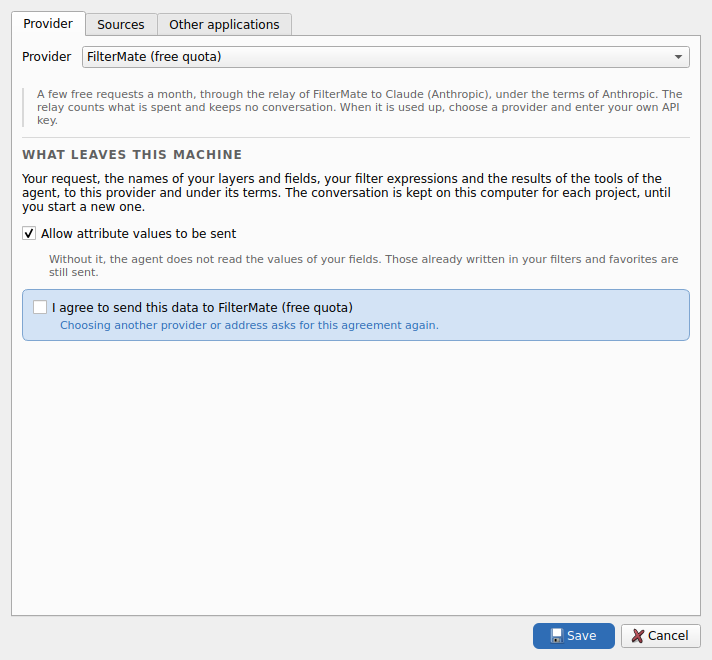
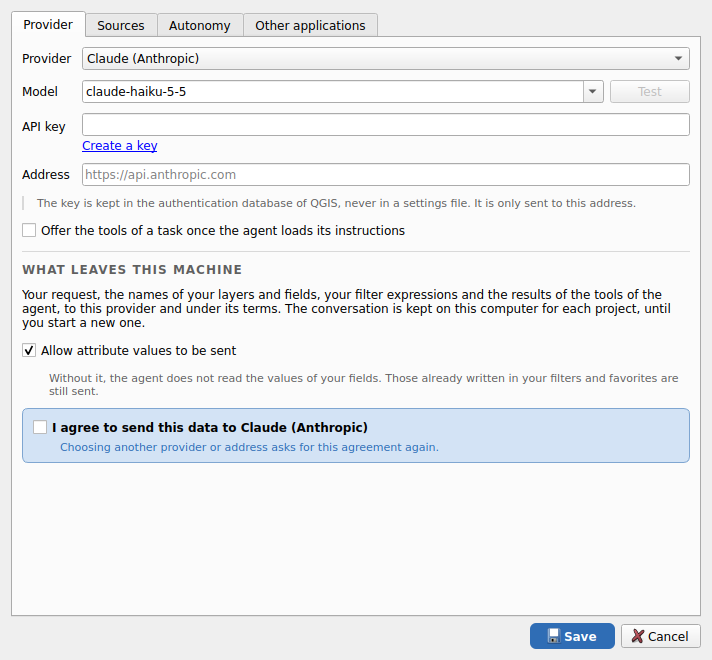
Deploy documentation b8f50547a60b4dd56f9bac595cb49d93a6dcef34 b8f50547a60b4dd56f9bac595cb49d93a6dcef34

Changed region(s): [[0.0309, 0.0303, 0.9888, 0.7273], [0.7416, 0.9394, 0.8343, 0.9697], [0.8961, 0.9394, 0.9579, 0.9697]]

diff --git a/index.ru.html b/index.ru.html
@@ -124,7 +124,7 @@
             <div class="section-heading"><p class="section-kicker">Экспериментально · Новое в FilterMate 5.1</p><h2 id="agent-title">Попросите фильтр одной фразой.</h2><p>AGENT — это чат в верхней части панели. Напишите, что нужно, например здания выше 1200 m в выбранной коммуне, и он отфильтрует, выделит, приблизит или экспортирует. Любой шаг можно отменить.</p></div>
             <a class="inline-cta" href="guide.html#agent" hreflang="en">Прочитать главу Agent <span aria-hidden="true">→</span> <small lang="en">(EN)</small></a>
         </div>
-        <ul class="capability-list"><li><strong>Ваша модель</strong><span>Claude, Mistral, OpenAI и совместимые серверы или локальная модель Ollama. Несколько бесплатных запросов в месяц для пробы, затем ваш собственный ключ, который хранится в базе аутентификации QGIS.</span></li><li><strong>Отмена по шагам</strong><span>Фильтры применяются сразу. Undo и Redo проходят по запросам агента, а Undo back to here возвращает к любому шагу.</span></li><li><strong>Алгоритмы QGIS</strong><span>Он может находить и запускать алгоритмы Processing, которые создают слои или статистику, на слоях проекта. Каждый результат — временный слой, который удаляет Undo.</span></li><li><strong>Подтверждаете вы</strong><span>Экспорт, а также добавление и удаление слоёв сначала запрашивают подтверждение. Фильтр — это одно простое предложение WHERE, которое проверяется перед выполнением.</span></li><li><strong>Источники, которые вы отмечаете</strong><span>Порталы открытых данных, сервисы WFS, сцены Sentinel-2 и коннекторы MCP — всё выключено, пока вы не отметите.</span></li><li><strong>Сначала ваше согласие</strong><span>Ничего не отправляется, пока вы не выберете модель и не дадите согласие. В руководстве перечислено, что уходит с каждым запросом.</span></li><li><strong>Сервер MCP</strong><span>По умолчанию выключен. Claude Code или другой MCP-клиент на вашем компьютере может управлять FilterMate через 127.0.0.1 с токеном доступа.</span></li></ul>
+        <ul class="capability-list"><li><strong>Ваша модель</strong><span>Ваш собственный ключ API для Claude, Mistral, OpenAI или совместимого сервера, который хранится в базе аутентификации QGIS, либо локальная модель Ollama, которой ключ не нужен; настройки подскажут в обоих случаях.</span></li><li><strong>Отмена по шагам</strong><span>Фильтры применяются сразу. Undo и Redo проходят по запросам агента, а Undo back to here возвращает к любому шагу.</span></li><li><strong>Алгоритмы QGIS</strong><span>Он может находить и запускать алгоритмы Processing, которые создают слои или статистику, на слоях проекта. Каждый результат — временный слой, который удаляет Undo.</span></li><li><strong>Подтверждаете вы</strong><span>Экспорт, а также добавление и удаление слоёв сначала запрашивают подтверждение. Фильтр — это одно простое предложение WHERE, которое проверяется перед выполнением.</span></li><li><strong>Источники, которые вы отмечаете</strong><span>Порталы открытых данных, сервисы WFS, сцены Sentinel-2 и коннекторы MCP — всё выключено, пока вы не отметите.</span></li><li><strong>Сначала ваше согласие</strong><span>Ничего не отправляется, пока вы не выберете модель и не дадите согласие. В руководстве перечислено, что уходит с каждым запросом.</span></li><li><strong>Сервер MCP</strong><span>По умолчанию выключен. Claude Code или другой MCP-клиент на вашем компьютере может управлять FilterMate через 127.0.0.1 с токеном доступа.</span></li></ul>
     </div>
 </section>
 

diff --git a/guide.fr.html b/guide.fr.html
@@ -872,15 +872,14 @@ processing.run("filtermate:batch_filter", {
 
     <h3>Choisir un modèle</h3>
     <ul>
-        <li><strong>Quota gratuit.</strong> La première fois, les réglages proposent quelques requêtes gratuites par mois, par un relais de FilterMate vers Claude Haiku 5.5 (Anthropic), sans clé à saisir. Le relais compte ce qui est dépensé et ne garde aucune conversation. Une fois le quota épuisé, le panneau demande votre propre clé d'API.</li>
-        <li><strong>Votre propre fournisseur.</strong> Claude, Mistral, OpenAI, tout serveur compatible OpenAI, ou un modèle Ollama local.</li>
+        <li><strong>Votre propre fournisseur.</strong> Claude, Mistral, OpenAI, tout serveur compatible OpenAI, ou un modèle Ollama local. Les réglages renvoient vers la page où créer une clé, la testent et listent les modèles. Pour Ollama, ils disent où l'installer et laissent télécharger un modèle depuis la boîte de dialogue.</li>
         <li><strong>La clé</strong> est conservée dans la base d'authentification de QGIS, qui demande son mot de passe maître, jamais dans un fichier de réglages. Elle n'est envoyée qu'au serveur pour lequel elle a été saisie, et vous pouvez la supprimer dans les réglages.</li>
         <li><strong>Consentement.</strong> Rien ne quitte votre ordinateur avant que vous ayez choisi un modèle et donné votre accord. Changer de fournisseur ou d'adresse le redemande.</li>
     </ul>
 
     <figure>
-        <img src="img/guide/agent-settings-fr.png" alt="Réglages d'AGENT, onglet Fournisseur : le quota gratuit choisi, ce qui quitte la machine, la case d'accord" loading="lazy" width="766" height="660">
-        <figcaption>Les réglages d'AGENT : le fournisseur (ici le quota gratuit), ce qui lui est envoyé, et l'accord demandé avant que quoi que ce soit ne quitte l'ordinateur. <em>Sources</em> et <em>Autres applications</em> sont les onglets suivants.</figcaption>
+        <img src="img/guide/agent-settings-fr.png" alt="Réglages d'AGENT, onglet Fournisseur : le fournisseur, ce qui quitte la machine, la case d'accord" loading="lazy" width="766" height="660">
+        <figcaption>Les réglages d'AGENT : le fournisseur, ce qui lui est envoyé, et l'accord demandé avant que quoi que ce soit ne quitte l'ordinateur. <em>Sources</em>, <em>Autonomie</em> et <em>Autres applications</em> sont les onglets suivants.</figcaption>
     </figure>
 
     <h3>Ce que vous voyez</h3>
@@ -938,7 +937,7 @@ processing.run("filtermate:batch_filter", {
     </ul>
     <p>
         Les valeurs d'attributs ne partent au modèle que si vous les autorisez dans les réglages : sans cela, les outils qui lisent des valeurs (<code>field_values</code>, <code>layer_statistics</code>, <code>sample_features</code>, <code>identify_at</code>) ne sont pas proposés.
-        Les valeurs déjà écrites dans des filtres et des favoris partent quand même, et la boîte de dialogue le dit. Avec le quota gratuit, la requête passe par le relais jusqu'à Claude Haiku 5.5.
+        Les valeurs déjà écrites dans des filtres et des favoris partent quand même, et la boîte de dialogue le dit.
     </p>
 
     <h3>Serveur MCP intégré au plugin</h3>
@@ -977,7 +976,7 @@ processing.run("filtermate:batch_filter", {
         <tr><td>Le panneau s'ouvre dans la mauvaise langue</td><td>Fixez <code>LANGUAGE</code> explicitement au lieu d'<em>auto</em>.</td></tr>
         <tr><td>Un filtre d'une ancienne session est toujours appliqué</td><td>Les filtres vivent dans le fichier de projet. Utilisez <strong>Unfilter</strong>, ou effacez le filtre fournisseur dans les propriétés de la couche.</td></tr>
         <tr><td>La section AGENT est absente</td><td>L'option <code>AGENT</code> de l'onglet Configuration est désactivée. Activez-la et rouvrez le panneau.</td></tr>
-        <tr><td>AGENT demande ma propre clé d'API</td><td>Le quota gratuit est épuisé, le vôtre pour le mois ou le total du relais. Saisissez une clé dans les réglages d'AGENT, ou choisissez un autre fournisseur, par exemple un modèle Ollama local.</td></tr>
+        <tr><td>AGENT demande ma propre clé d'API</td><td>Aucune clé n'est encore saisie. Saisissez-en une dans les réglages d'AGENT, ou choisissez un modèle Ollama local.</td></tr>
         <tr><td>Un modèle local donne un délai dépassé</td><td>Le délai réseau de QGIS s'applique à l'agent (60 s par défaut). Un modèle local lent à démarrer peut en demander plus, et le message le dit.</td></tr>
         <tr><td>SAM n'est pas installé : onnxruntime a été refusé ou l'installation a échoué</td><td>Si vous refusez la question, les cibles d'objets utilisent le moteur couleur, et le bouton <em>Install SAM…</em> du groupe PIPETTE la repropose. Si pip échoue (pas de réseau, pas de pip), la raison est dans le journal de FilterMate et le groupe affiche la commande à lancer à la main dans un terminal, l'OSGeo4W Shell sous Windows.</td></tr>
         <tr><td>Le modèle SAM ne se télécharge pas, ou est signalé abîmé</td><td>Le téléchargement passe par le proxy HTTP des options de QGIS et peut être annulé. Chaque fichier est vérifié par son SHA-256 avant de remplacer quoi que ce soit. Cliquez sur <em>Repair the model…</em> pour remplacer les mauvais fichiers.</td></tr>

diff --git a/guide.html b/guide.html
@@ -873,15 +873,14 @@ processing.run("filtermate:batch_filter", {
 
     <h3>Choose a model</h3>
     <ul>
-        <li><strong>Free quota.</strong> The first time, the settings offer a few free requests a month, through a relay of FilterMate to Claude Haiku 5.5 (Anthropic), with no key to enter. The relay counts what is spent and keeps no conversation. Once the quota is used up, the panel asks for your own API key.</li>
-        <li><strong>Your own provider.</strong> Claude, Mistral, OpenAI, any OpenAI-compatible server, or a local Ollama model.</li>
+        <li><strong>Your own provider.</strong> Claude, Mistral, OpenAI, any OpenAI-compatible server, or a local Ollama model. The settings link to the page where a key is created, test it, and list the models. For Ollama, they say where to install it and download a model from the dialog.</li>
         <li><strong>The key</strong> is kept in the QGIS authentication database, which asks for its master password, never in a settings file. It is sent only to the server it was typed for, and you can remove it in the settings.</li>
         <li><strong>Consent.</strong> Nothing leaves your computer before you have chosen a model and agreed. Changing the provider or its address asks again.</li>
     </ul>
 
     <figure>
-        <img src="img/guide/agent-settings.png" alt="AGENT settings, Provider tab: the free quota chosen, what leaves this machine, the box to agree" loading="lazy" width="712" height="660">
-        <figcaption>The settings of AGENT: the provider (here the free quota), what is sent to it, and the agreement asked before anything leaves the computer. <em>Sources</em> and <em>Other applications</em> are the next tabs.</figcaption>
+        <img src="img/guide/agent-settings.png" alt="AGENT settings, Provider tab: the provider, what leaves this machine, the box to agree" loading="lazy" width="712" height="660">
+        <figcaption>The settings of AGENT: the provider, what is sent to it, and the agreement asked before anything leaves the computer. <em>Sources</em>, <em>Autonomy</em> and <em>Other applications</em> are the next tabs.</figcaption>
     </figure>
 
     <h3>What you see</h3>
@@ -939,7 +938,7 @@ processing.run("filtermate:batch_filter", {
     </ul>
     <p>
         Attribute values go to the model only if you allow them in the settings: without that, the tools that read values (<code>field_values</code>, <code>layer_statistics</code>, <code>sample_features</code>, <code>identify_at</code>) are not offered.
-        Values already written in filters and favorites are still sent, and the dialog says so. With the free quota, the request goes through the relay to Claude Haiku 5.5.
+        Values already written in filters and favorites are still sent, and the dialog says so.
     </p>
 
     <h3>MCP server built into the plugin</h3>
@@ -978,7 +977,7 @@ processing.run("filtermate:batch_filter", {
         <tr><td>The panel opens in the wrong language</td><td>Set <code>LANGUAGE</code> explicitly instead of <em>auto</em>.</td></tr>
         <tr><td>A filter from an old session is still applied</td><td>Filters live in the project file. Use <strong>Unfilter</strong>, or clear the provider filter in the layer properties.</td></tr>
         <tr><td>The AGENT section is missing</td><td>The <code>AGENT</code> option of the Configuration tab is off. Turn it on and reopen the panel.</td></tr>
-        <tr><td>AGENT asks for my own API key</td><td>The free quota is used up, yours for the month or the relay's total. Enter a key in the AGENT settings, or choose another provider such as a local Ollama model.</td></tr>
+        <tr><td>AGENT asks for my own API key</td><td>No key is entered yet. Enter one in the AGENT settings, or choose a local Ollama model.</td></tr>
         <tr><td>A local model gives a timeout</td><td>The network timeout of QGIS applies to the agent (60 s by default). A local model slow to start may need more, and the message says so.</td></tr>
         <tr><td>SAM is not installed: onnxruntime was refused or the installation failed</td><td>If you decline the question, the object targets use the colour engine, and the <em>Install SAM…</em> button of the PIPETTE group offers it again. If pip fails (no network, no pip), the reason is in the FilterMate log and the group shows the command to run by hand in a terminal, the OSGeo4W Shell on Windows.</td></tr>
         <tr><td>The SAM model does not download, or is reported damaged</td><td>The download uses the HTTP proxy set in the QGIS options and can be canceled. Each file is checked against its SHA-256 before it replaces anything. Click <em>Repair the model…</em> to replace the bad files.</td></tr>

diff --git a/index.ja.html b/index.ja.html
@@ -124,7 +124,7 @@
             <div class="section-heading"><p class="section-kicker">試験的機能 · FilterMate 5.1 の新機能</p><h2 id="agent-title">一文でフィルタを頼めます。</h2><p>AGENT はパネル上部のチャットです。「選択した市町村の標高 1200 m 以上の建物」のように書くと、フィルタ、選択、ズーム、エクスポートを行います。各ステップは元に戻せます。</p></div>
             <a class="inline-cta" href="guide.html#agent" hreflang="en">Agent の章を読む <span aria-hidden="true">→</span> <small lang="en">(EN)</small></a>
         </div>
-        <ul class="capability-list"><li><strong>使うモデル</strong><span>Claude、Mistral、OpenAI と互換サーバー、またはローカルの Ollama モデル。お試し用に月に数回ぶんの無料リクエストがあり、その後はご自身のキーを使います。キーは QGIS の認証データベースに保存されます。</span></li><li><strong>ステップごとに元に戻す</strong><span>フィルタはすぐに適用されます。Undo と Redo でエージェントのリクエストを順にたどり、Undo back to here で任意のステップまで戻れます。</span></li><li><strong>QGIS のアルゴリズム</strong><span>レイヤまたは統計値を出力する Processing アルゴリズムを、プロジェクトのレイヤに対して検索・実行できます。結果はそれぞれ一時レイヤで、Undo で取り除かれます。</span></li><li><strong>確認は利用者が行う</strong><span>エクスポートと、レイヤの追加・削除は、先に確認を求めます。フィルタは単純な WHERE 句ひとつで、実行前に検査されます。</span></li><li><strong>チェックを入れたソースだけ</strong><span>オープンデータポータル、WFS サービス、Sentinel-2 のシーン、MCP コネクタ。チェックを入れるまで、すべて無効です。</span></li><li><strong>まず同意を得る</strong><span>モデルを選んで同意するまで、何も送信されません。リクエストごとに何が送られるかは、ガイドに一覧があります。</span></li><li><strong>MCP サーバー</strong><span>初期設定ではオフです。お使いのコンピューター上の Claude Code などの MCP クライアントが、アクセストークンを使って 127.0.0.1 経由で FilterMate を操作できます。</span></li></ul>
+        <ul class="capability-list"><li><strong>使うモデル</strong><span>Claude、Mistral、OpenAI、互換サーバーにはご自身の API キーを使い、キーは QGIS の認証データベースに保存されます。ローカルの Ollama モデルにはキーは不要です。設定画面がどちらも案内します。</span></li><li><strong>ステップごとに元に戻す</strong><span>フィルタはすぐに適用されます。Undo と Redo でエージェントのリクエストを順にたどり、Undo back to here で任意のステップまで戻れます。</span></li><li><strong>QGIS のアルゴリズム</strong><span>レイヤまたは統計値を出力する Processing アルゴリズムを、プロジェクトのレイヤに対して検索・実行できます。結果はそれぞれ一時レイヤで、Undo で取り除かれます。</span></li><li><strong>確認は利用者が行う</strong><span>エクスポートと、レイヤの追加・削除は、先に確認を求めます。フィルタは単純な WHERE 句ひとつで、実行前に検査されます。</span></li><li><strong>チェックを入れたソースだけ</strong><span>オープンデータポータル、WFS サービス、Sentinel-2 のシーン、MCP コネクタ。チェックを入れるまで、すべて無効です。</span></li><li><strong>まず同意を得る</strong><span>モデルを選んで同意するまで、何も送信されません。リクエストごとに何が送られるかは、ガイドに一覧があります。</span></li><li><strong>MCP サーバー</strong><span>初期設定ではオフです。お使いのコンピューター上の Claude Code などの MCP クライアントが、アクセストークンを使って 127.0.0.1 経由で FilterMate を操作できます。</span></li></ul>
     </div>
 </section>
 

diff --git a/index.fr.html b/index.fr.html
@@ -120,7 +120,7 @@
             <div class="section-heading"><p class="section-kicker">Expérimental · Nouveau dans FilterMate 5.1</p><h2 id="agent-title">Demandez un filtre en une phrase.</h2><p>AGENT est un tchat en haut du panneau. Écrivez ce que vous voulez, par exemple les bâtiments au-dessus de 1200 m dans la commune sélectionnée, et il filtre, sélectionne, zoome ou exporte. Chaque étape peut être annulée.</p></div>
             <a class="inline-cta" href="guide.fr.html#agent">Lire le chapitre Agent <span aria-hidden="true">→</span></a>
         </div>
-        <ul class="capability-list"><li><strong>Votre modèle</strong><span>Claude, Mistral, OpenAI et serveurs compatibles, ou un modèle Ollama local. Quelques requêtes gratuites par mois pour essayer, puis votre propre clé, conservée dans la base d’authentification de QGIS.</span></li><li><strong>Annuler par étape</strong><span>Les filtres s’appliquent aussitôt. Undo et Redo parcourent les demandes de l’agent, et « Annuler jusqu’ici » revient à n’importe quelle étape.</span></li><li><strong>Algorithmes QGIS</strong><span>Il peut chercher et lancer des algorithmes Processing qui produisent des couches ou des statistiques, sur des couches du projet. Chaque résultat est une couche temporaire que Undo retire.</span></li><li><strong>Vous confirmez</strong><span>Les exports et les couches ajoutées ou retirées demandent d’abord. Un filtre est une simple clause WHERE, vérifiée avant de s’exécuter.</span></li><li><strong>Sources que vous cochez</strong><span>Portails de données ouvertes, services WFS, scènes Sentinel-2 et connecteurs MCP, tous désactivés tant que vous ne les cochez pas.</span></li><li><strong>Votre accord d’abord</strong><span>Rien n’est envoyé avant que vous ayez choisi un modèle et donné votre accord. Le guide liste ce qui part avec chaque requête.</span></li><li><strong>Serveur MCP</strong><span>Désactivé par défaut. Claude Code ou un autre client MCP de votre ordinateur peut piloter FilterMate par 127.0.0.1, avec un jeton d’accès.</span></li></ul>
+        <ul class="capability-list"><li><strong>Votre modèle</strong><span>Votre propre clé d’API pour Claude, Mistral, OpenAI ou un serveur compatible, conservée dans la base d’authentification de QGIS, ou un modèle Ollama local, qui n’en demande aucune ; les réglages guident dans les deux cas.</span></li><li><strong>Annuler par étape</strong><span>Les filtres s’appliquent aussitôt. Undo et Redo parcourent les demandes de l’agent, et « Annuler jusqu’ici » revient à n’importe quelle étape.</span></li><li><strong>Algorithmes QGIS</strong><span>Il peut chercher et lancer des algorithmes Processing qui produisent des couches ou des statistiques, sur des couches du projet. Chaque résultat est une couche temporaire que Undo retire.</span></li><li><strong>Vous confirmez</strong><span>Les exports et les couches ajoutées ou retirées demandent d’abord. Un filtre est une simple clause WHERE, vérifiée avant de s’exécuter.</span></li><li><strong>Sources que vous cochez</strong><span>Portails de données ouvertes, services WFS, scènes Sentinel-2 et connecteurs MCP, tous désactivés tant que vous ne les cochez pas.</span></li><li><strong>Votre accord d’abord</strong><span>Rien n’est envoyé avant que vous ayez choisi un modèle et donné votre accord. Le guide liste ce qui part avec chaque requête.</span></li><li><strong>Serveur MCP</strong><span>Désactivé par défaut. Claude Code ou un autre client MCP de votre ordinateur peut piloter FilterMate par 127.0.0.1, avec un jeton d’accès.</span></li></ul>
     </div>
 </section>
 

diff --git a/index.de.html b/index.de.html
@@ -124,7 +124,7 @@
             <div class="section-heading"><p class="section-kicker">Experimentell · Neu in FilterMate 5.1</p><h2 id="agent-title">Bitten Sie in einem Satz um einen Filter.</h2><p>AGENT ist ein Chat oben im Panel. Schreiben Sie, was Sie wollen, etwa Gebäude über 1200 m in der gewählten Gemeinde, und er filtert, wählt aus, zoomt oder exportiert. Jeder Schritt lässt sich rückgängig machen.</p></div>
             <a class="inline-cta" href="guide.html#agent" hreflang="en">Das Kapitel Agent lesen <span aria-hidden="true">→</span> <small lang="en">(EN)</small></a>
         </div>
-        <ul class="capability-list"><li><strong>Ihr Modell</strong><span>Claude, Mistral, OpenAI und kompatible Server oder ein lokales Ollama-Modell. Einige kostenlose Anfragen im Monat zum Ausprobieren, danach Ihr eigener Schlüssel, gespeichert in der QGIS-Authentifizierungsdatenbank.</span></li><li><strong>Rückgängig pro Schritt</strong><span>Filter werden sofort angewendet. Undo und Redo gehen die Anfragen des Agenten durch, und „Undo back to here“ führt zu jedem Schritt zurück.</span></li><li><strong>QGIS-Algorithmen</strong><span>Er kann Processing-Algorithmen finden und ausführen, die Ebenen oder Statistiken liefern, auf Ebenen des Projekts. Jedes Ergebnis ist eine temporäre Ebene, die Undo entfernt.</span></li><li><strong>Sie bestätigen</strong><span>Exporte sowie hinzugefügte oder entfernte Ebenen fragen zuerst nach. Ein Filter ist eine einfache WHERE-Klausel, die vor der Ausführung geprüft wird.</span></li><li><strong>Quellen, die Sie ankreuzen</strong><span>Open-Data-Portale, WFS-Dienste, Sentinel-2-Szenen und MCP-Konnektoren, alle aus, bis Sie sie ankreuzen.</span></li><li><strong>Erst Ihre Zustimmung</strong><span>Nichts wird gesendet, bevor Sie ein Modell wählen und zustimmen. Die Anleitung listet auf, was mit jeder Anfrage mitgeht.</span></li><li><strong>MCP-Server</strong><span>Standardmäßig aus. Claude Code oder ein anderer MCP-Client auf Ihrem Rechner kann FilterMate über 127.0.0.1 steuern, mit einem Zugriffstoken.</span></li></ul>
+        <ul class="capability-list"><li><strong>Ihr Modell</strong><span>Ihr eigener API-Schlüssel für Claude, Mistral, OpenAI oder einen kompatiblen Server, gespeichert in der QGIS-Authentifizierungsdatenbank, oder ein lokales Ollama-Modell, das keinen braucht; die Einstellungen führen durch beides.</span></li><li><strong>Rückgängig pro Schritt</strong><span>Filter werden sofort angewendet. Undo und Redo gehen die Anfragen des Agenten durch, und „Undo back to here“ führt zu jedem Schritt zurück.</span></li><li><strong>QGIS-Algorithmen</strong><span>Er kann Processing-Algorithmen finden und ausführen, die Ebenen oder Statistiken liefern, auf Ebenen des Projekts. Jedes Ergebnis ist eine temporäre Ebene, die Undo entfernt.</span></li><li><strong>Sie bestätigen</strong><span>Exporte sowie hinzugefügte oder entfernte Ebenen fragen zuerst nach. Ein Filter ist eine einfache WHERE-Klausel, die vor der Ausführung geprüft wird.</span></li><li><strong>Quellen, die Sie ankreuzen</strong><span>Open-Data-Portale, WFS-Dienste, Sentinel-2-Szenen und MCP-Konnektoren, alle aus, bis Sie sie ankreuzen.</span></li><li><strong>Erst Ihre Zustimmung</strong><span>Nichts wird gesendet, bevor Sie ein Modell wählen und zustimmen. Die Anleitung listet auf, was mit jeder Anfrage mitgeht.</span></li><li><strong>MCP-Server</strong><span>Standardmäßig aus. Claude Code oder ein anderer MCP-Client auf Ihrem Rechner kann FilterMate über 127.0.0.1 steuern, mit einem Zugriffstoken.</span></li></ul>
     </div>
 </section>
 

diff --git a/index.it.html b/index.it.html
@@ -124,7 +124,7 @@
             <div class="section-heading"><p class="section-kicker">Sperimentale · Novità di FilterMate 5.1</p><h2 id="agent-title">Chiedete un filtro con una frase.</h2><p>AGENT è una chat in cima al pannello. Scrivete ciò che volete, per esempio gli edifici sopra i 1200 m nel comune selezionato, e filtra, seleziona, zooma o esporta. Ogni passaggio si può annullare.</p></div>
             <a class="inline-cta" href="guide.html#agent" hreflang="en">Leggi il capitolo Agent <span aria-hidden="true">→</span> <small lang="en">(EN)</small></a>
         </div>
-        <ul class="capability-list"><li><strong>Il vostro modello</strong><span>Claude, Mistral, OpenAI e server compatibili, oppure un modello Ollama locale. Alcune richieste gratuite al mese per provare, poi la vostra chiave, conservata nel database di autenticazione di QGIS.</span></li><li><strong>Annulla per passaggio</strong><span>I filtri si applicano subito. Undo e Redo percorrono le richieste dell’agente, e Undo back to here torna a qualsiasi passaggio.</span></li><li><strong>Algoritmi di QGIS</strong><span>Può cercare ed eseguire algoritmi di Processing che producono livelli o statistiche, su livelli del progetto. Ogni risultato è un livello temporaneo che Undo rimuove.</span></li><li><strong>Confermate voi</strong><span>Esportazioni e livelli aggiunti o rimossi chiedono prima conferma. Un filtro è una semplice clausola WHERE, controllata prima dell’esecuzione.</span></li><li><strong>Fonti che spuntate</strong><span>Portali di dati aperti, servizi WFS, scene Sentinel-2 e connettori MCP, tutti disattivati finché non li spuntate.</span></li><li><strong>Prima il vostro consenso</strong><span>Non viene inviato nulla prima che scegliate un modello e diate il consenso. La guida elenca ciò che accompagna ogni richiesta.</span></li><li><strong>Server MCP</strong><span>Disattivato per impostazione predefinita. Claude Code o un altro client MCP sul vostro computer può pilotare FilterMate tramite 127.0.0.1, con un token di accesso.</span></li></ul>
+        <ul class="capability-list"><li><strong>Il vostro modello</strong><span>La vostra chiave API per Claude, Mistral, OpenAI o un server compatibile, conservata nel database di autenticazione di QGIS, oppure un modello Ollama locale, che non ne richiede nessuna; le impostazioni guidano in entrambi i casi.</span></li><li><strong>Annulla per passaggio</strong><span>I filtri si applicano subito. Undo e Redo percorrono le richieste dell’agente, e Undo back to here torna a qualsiasi passaggio.</span></li><li><strong>Algoritmi di QGIS</strong><span>Può cercare ed eseguire algoritmi di Processing che producono livelli o statistiche, su livelli del progetto. Ogni risultato è un livello temporaneo che Undo rimuove.</span></li><li><strong>Confermate voi</strong><span>Esportazioni e livelli aggiunti o rimossi chiedono prima conferma. Un filtro è una semplice clausola WHERE, controllata prima dell’esecuzione.</span></li><li><strong>Fonti che spuntate</strong><span>Portali di dati aperti, servizi WFS, scene Sentinel-2 e connettori MCP, tutti disattivati finché non li spuntate.</span></li><li><strong>Prima il vostro consenso</strong><span>Non viene inviato nulla prima che scegliate un modello e diate il consenso. La guida elenca ciò che accompagna ogni richiesta.</span></li><li><strong>Server MCP</strong><span>Disattivato per impostazione predefinita. Claude Code o un altro client MCP sul vostro computer può pilotare FilterMate tramite 127.0.0.1, con un token di accesso.</span></li></ul>
     </div>
 </section>
 

diff --git a/index.pt-br.html b/index.pt-br.html
@@ -124,7 +124,7 @@
             <div class="section-heading"><p class="section-kicker">Experimental · Novo no FilterMate 5.1</p><h2 id="agent-title">Peça um filtro em uma frase.</h2><p>O AGENT é um chat no alto do painel. Escreva o que quer, por exemplo edifícios acima de 1200 m no município selecionado, e ele filtra, seleciona, dá zoom ou exporta. Cada etapa pode ser desfeita.</p></div>
             <a class="inline-cta" href="guide.html#agent" hreflang="en">Ler o capítulo Agent <span aria-hidden="true">→</span> <small lang="en">(EN)</small></a>
         </div>
-        <ul class="capability-list"><li><strong>Seu modelo</strong><span>Claude, Mistral, OpenAI e servidores compatíveis, ou um modelo Ollama local. Algumas solicitações gratuitas por mês para experimentar, depois sua própria chave, guardada no banco de autenticação do QGIS.</span></li><li><strong>Desfazer por etapa</strong><span>Os filtros são aplicados na hora. Undo e Redo percorrem as solicitações do agente, e Undo back to here volta a qualquer etapa.</span></li><li><strong>Algoritmos do QGIS</strong><span>Ele pode encontrar e executar algoritmos do Processing que produzem camadas ou estatísticas, sobre camadas do projeto. Cada resultado é uma camada temporária que o Undo remove.</span></li><li><strong>Você confirma</strong><span>Exportações e camadas adicionadas ou removidas pedem confirmação antes. Um filtro é uma simples cláusula WHERE, verificada antes de ser executada.</span></li><li><strong>Fontes que você marca</strong><span>Portais de dados abertos, serviços WFS, cenas Sentinel-2 e conectores MCP, todos desligados até você marcá-los.</span></li><li><strong>Primeiro, seu consentimento</strong><span>Nada é enviado antes de você escolher um modelo e concordar. O guia lista o que vai com cada solicitação.</span></li><li><strong>Servidor MCP</strong><span>Desligado por padrão. O Claude Code ou outro cliente MCP no seu computador pode controlar o FilterMate por 127.0.0.1, com um token de acesso.</span></li></ul>
+        <ul class="capability-list"><li><strong>Seu modelo</strong><span>Sua própria chave de API para Claude, Mistral, OpenAI ou um servidor compatível, guardada no banco de autenticação do QGIS, ou um modelo Ollama local, que não precisa de nenhuma; as configurações guiam nos dois casos.</span></li><li><strong>Desfazer por etapa</strong><span>Os filtros são aplicados na hora. Undo e Redo percorrem as solicitações do agente, e Undo back to here volta a qualquer etapa.</span></li><li><strong>Algoritmos do QGIS</strong><span>Ele pode encontrar e executar algoritmos do Processing que produzem camadas ou estatísticas, sobre camadas do projeto. Cada resultado é uma camada temporária que o Undo remove.</span></li><li><strong>Você confirma</strong><span>Exportações e camadas adicionadas ou removidas pedem confirmação antes. Um filtro é uma simples cláusula WHERE, verificada antes de ser executada.</span></li><li><strong>Fontes que você marca</strong><span>Portais de dados abertos, serviços WFS, cenas Sentinel-2 e conectores MCP, todos desligados até você marcá-los.</span></li><li><strong>Primeiro, seu consentimento</strong><span>Nada é enviado antes de você escolher um modelo e concordar. O guia lista o que vai com cada solicitação.</span></li><li><strong>Servidor MCP</strong><span>Desligado por padrão. O Claude Code ou outro cliente MCP no seu computador pode controlar o FilterMate por 127.0.0.1, com um token de acesso.</span></li></ul>
     </div>
 </section>
 

diff --git a/index.es.html b/index.es.html
@@ -124,7 +124,7 @@
             <div class="section-heading"><p class="section-kicker">Experimental · Novedad de FilterMate 5.1</p><h2 id="agent-title">Pida un filtro con una frase.</h2><p>AGENT es un chat en la parte superior del panel. Escriba lo que quiere, por ejemplo edificios por encima de 1200 m en el municipio seleccionado, y filtra, selecciona, hace zoom o exporta. Cada paso se puede deshacer.</p></div>
             <a class="inline-cta" href="guide.html#agent" hreflang="en">Leer el capítulo Agent <span aria-hidden="true">→</span> <small lang="en">(EN)</small></a>
         </div>
-        <ul class="capability-list"><li><strong>Su modelo</strong><span>Claude, Mistral, OpenAI y servidores compatibles, o un modelo Ollama local. Unas pocas solicitudes gratuitas al mes para probar y después su propia clave, guardada en la base de datos de autenticación de QGIS.</span></li><li><strong>Deshacer por paso</strong><span>Los filtros se aplican al instante. Undo y Redo recorren las solicitudes del agente, y Undo back to here vuelve a cualquier paso.</span></li><li><strong>Algoritmos de QGIS</strong><span>Puede buscar y ejecutar algoritmos de Processing que producen capas o estadísticas, sobre capas del proyecto. Cada resultado es una capa temporal que Undo elimina.</span></li><li><strong>Usted confirma</strong><span>Las exportaciones y las capas añadidas o quitadas piden confirmación antes. Un filtro es una simple cláusula WHERE, comprobada antes de ejecutarse.</span></li><li><strong>Fuentes que usted marca</strong><span>Portales de datos abiertos, servicios WFS, escenas Sentinel-2 y conectores MCP, todos desactivados hasta que los marque.</span></li><li><strong>Primero, su consentimiento</strong><span>No se envía nada antes de que elija un modelo y acepte. La guía enumera lo que acompaña a cada solicitud.</span></li><li><strong>Servidor MCP</strong><span>Desactivado de forma predeterminada. Claude Code u otro cliente MCP de su equipo puede controlar FilterMate por 127.0.0.1, con un token de acceso.</span></li></ul>
+        <ul class="capability-list"><li><strong>Su modelo</strong><span>Su propia clave de API para Claude, Mistral, OpenAI o un servidor compatible, guardada en la base de datos de autenticación de QGIS, o un modelo Ollama local, que no necesita ninguna; los ajustes guían ambos casos.</span></li><li><strong>Deshacer por paso</strong><span>Los filtros se aplican al instante. Undo y Redo recorren las solicitudes del agente, y Undo back to here vuelve a cualquier paso.</span></li><li><strong>Algoritmos de QGIS</strong><span>Puede buscar y ejecutar algoritmos de Processing que producen capas o estadísticas, sobre capas del proyecto. Cada resultado es una capa temporal que Undo elimina.</span></li><li><strong>Usted confirma</strong><span>Las exportaciones y las capas añadidas o quitadas piden confirmación antes. Un filtro es una simple cláusula WHERE, comprobada antes de ejecutarse.</span></li><li><strong>Fuentes que usted marca</strong><span>Portales de datos abiertos, servicios WFS, escenas Sentinel-2 y conectores MCP, todos desactivados hasta que los marque.</span></li><li><strong>Primero, su consentimiento</strong><span>No se envía nada antes de que elija un modelo y acepte. La guía enumera lo que acompaña a cada solicitud.</span></li><li><strong>Servidor MCP</strong><span>Desactivado de forma predeterminada. Claude Code u otro cliente MCP de su equipo puede controlar FilterMate por 127.0.0.1, con un token de acceso.</span></li></ul>
     </div>
 </section>
 

diff --git a/index.pl.html b/index.pl.html
@@ -124,7 +124,7 @@
             <div class="section-heading"><p class="section-kicker">Eksperymentalne · Nowość w FilterMate 5.1</p><h2 id="agent-title">Poproś o filtr jednym zdaniem.</h2><p>AGENT to czat u góry panelu. Napisz, czego chcesz, na przykład budynki powyżej 1200 m w wybranej gminie, a on filtruje, zaznacza, przybliża lub eksportuje. Każdy krok można cofnąć.</p></div>
             <a class="inline-cta" href="guide.html#agent" hreflang="en">Przeczytaj rozdział Agent <span aria-hidden="true">→</span> <small lang="en">(EN)</small></a>
         </div>
-        <ul class="capability-list"><li><strong>Twój model</strong><span>Claude, Mistral, OpenAI i zgodne serwery albo lokalny model Ollama. Kilka darmowych zapytań miesięcznie na próbę, potem własny klucz, przechowywany w bazie uwierzytelniania QGIS.</span></li><li><strong>Cofanie krok po kroku</strong><span>Filtry stosują się od razu. Undo i Redo przechodzą przez żądania agenta, a Undo back to here wraca do dowolnego kroku.</span></li><li><strong>Algorytmy QGIS</strong><span>Może wyszukiwać i uruchamiać algorytmy Processing, które tworzą warstwy lub statystyki, na warstwach projektu. Każdy wynik to warstwa tymczasowa, którą usuwa Undo.</span></li><li><strong>Ty potwierdzasz</strong><span>Eksporty oraz dodawanie i usuwanie warstw najpierw pytają o zgodę. Filtr to jedna zwykła klauzula WHERE, sprawdzana przed wykonaniem.</span></li><li><strong>Źródła, które zaznaczasz</strong><span>Portale otwartych danych, usługi WFS, sceny Sentinel-2 i konektory MCP, wszystko wyłączone, dopóki tego nie zaznaczysz.</span></li><li><strong>Najpierw Twoja zgoda</strong><span>Nic nie jest wysyłane, zanim wybierzesz model i wyrazisz zgodę. Przewodnik wylicza, co trafia do modelu z każdym zapytaniem.</span></li><li><strong>Serwer MCP</strong><span>Domyślnie wyłączony. Claude Code lub inny klient MCP na Twoim komputerze może sterować FilterMate przez 127.0.0.1, z tokenem dostępu.</span></li></ul>
+        <ul class="capability-list"><li><strong>Twój model</strong><span>Własny klucz API dla Claude, Mistral, OpenAI lub zgodnego serwera, przechowywany w bazie uwierzytelniania QGIS, albo lokalny model Ollama, który żadnego nie potrzebuje; ustawienia prowadzą przez oba przypadki.</span></li><li><strong>Cofanie krok po kroku</strong><span>Filtry stosują się od razu. Undo i Redo przechodzą przez żądania agenta, a Undo back to here wraca do dowolnego kroku.</span></li><li><strong>Algorytmy QGIS</strong><span>Może wyszukiwać i uruchamiać algorytmy Processing, które tworzą warstwy lub statystyki, na warstwach projektu. Każdy wynik to warstwa tymczasowa, którą usuwa Undo.</span></li><li><strong>Ty potwierdzasz</strong><span>Eksporty oraz dodawanie i usuwanie warstw najpierw pytają o zgodę. Filtr to jedna zwykła klauzula WHERE, sprawdzana przed wykonaniem.</span></li><li><strong>Źródła, które zaznaczasz</strong><span>Portale otwartych danych, usługi WFS, sceny Sentinel-2 i konektory MCP, wszystko wyłączone, dopóki tego nie zaznaczysz.</span></li><li><strong>Najpierw Twoja zgoda</strong><span>Nic nie jest wysyłane, zanim wybierzesz model i wyrazisz zgodę. Przewodnik wylicza, co trafia do modelu z każdym zapytaniem.</span></li><li><strong>Serwer MCP</strong><span>Domyślnie wyłączony. Claude Code lub inny klient MCP na Twoim komputerze może sterować FilterMate przez 127.0.0.1, z tokenem dostępu.</span></li></ul>
     </div>
 </section>
 

diff --git a/index.nl.html b/index.nl.html
@@ -124,7 +124,7 @@
             <div class="section-heading"><p class="section-kicker">Experimenteel · Nieuw in FilterMate 5.1</p><h2 id="agent-title">Vraag een filter in één zin.</h2><p>AGENT is een chat bovenaan het paneel. Schrijf wat je wilt, bijvoorbeeld gebouwen boven 1200 m in de gekozen gemeente, en hij filtert, selecteert, zoomt of exporteert. Elke stap kan ongedaan worden gemaakt.</p></div>
             <a class="inline-cta" href="guide.html#agent" hreflang="en">Het hoofdstuk Agent lezen <span aria-hidden="true">→</span> <small lang="en">(EN)</small></a>
         </div>
-        <ul class="capability-list"><li><strong>Jouw model</strong><span>Claude, Mistral, OpenAI en compatibele servers, of een lokaal Ollama-model. Een paar gratis verzoeken per maand om het te proberen, daarna je eigen sleutel, bewaard in de QGIS-authenticatiedatabase.</span></li><li><strong>Ongedaan per stap</strong><span>Filters worden direct toegepast. Undo en Redo doorlopen de verzoeken van de agent, en Undo back to here gaat terug naar elke stap.</span></li><li><strong>QGIS-algoritmen</strong><span>Hij kan Processing-algoritmen zoeken en uitvoeren die lagen of statistieken opleveren, op lagen van het project. Elk resultaat is een tijdelijke laag die Undo verwijdert.</span></li><li><strong>Jij bevestigt</strong><span>Exports en toegevoegde of verwijderde lagen vragen eerst om bevestiging. Een filter is één gewone WHERE-clausule, gecontroleerd voordat hij wordt uitgevoerd.</span></li><li><strong>Bronnen die je aanvinkt</strong><span>Open-dataportalen, WFS-services, Sentinel-2-scènes en MCP-connectors, allemaal uit totdat je ze aanvinkt.</span></li><li><strong>Eerst jouw toestemming</strong><span>Er wordt niets verzonden voordat je een model kiest en akkoord gaat. De handleiding somt op wat met elk verzoek meegaat.</span></li><li><strong>MCP-server</strong><span>Standaard uit. Claude Code of een andere MCP-client op je computer kan FilterMate bedienen via 127.0.0.1, met een toegangstoken.</span></li></ul>
+        <ul class="capability-list"><li><strong>Jouw model</strong><span>Je eigen API-sleutel voor Claude, Mistral, OpenAI of een compatibele server, bewaard in de QGIS-authenticatiedatabase, of een lokaal Ollama-model, dat er geen nodig heeft; de instellingen begeleiden beide.</span></li><li><strong>Ongedaan per stap</strong><span>Filters worden direct toegepast. Undo en Redo doorlopen de verzoeken van de agent, en Undo back to here gaat terug naar elke stap.</span></li><li><strong>QGIS-algoritmen</strong><span>Hij kan Processing-algoritmen zoeken en uitvoeren die lagen of statistieken opleveren, op lagen van het project. Elk resultaat is een tijdelijke laag die Undo verwijdert.</span></li><li><strong>Jij bevestigt</strong><span>Exports en toegevoegde of verwijderde lagen vragen eerst om bevestiging. Een filter is één gewone WHERE-clausule, gecontroleerd voordat hij wordt uitgevoerd.</span></li><li><strong>Bronnen die je aanvinkt</strong><span>Open-dataportalen, WFS-services, Sentinel-2-scènes en MCP-connectors, allemaal uit totdat je ze aanvinkt.</span></li><li><strong>Eerst jouw toestemming</strong><span>Er wordt niets verzonden voordat je een model kiest en akkoord gaat. De handleiding somt op wat met elk verzoek meegaat.</span></li><li><strong>MCP-server</strong><span>Standaard uit. Claude Code of een andere MCP-client op je computer kan FilterMate bedienen via 127.0.0.1, met een toegangstoken.</span></li></ul>
     </div>
 </section>
 

diff --git a/index.sv.html b/index.sv.html
@@ -124,7 +124,7 @@
             <div class="section-heading"><p class="section-kicker">Experimentellt · Nytt i FilterMate 5.1</p><h2 id="agent-title">Be om ett filter med en mening.</h2><p>AGENT är en chatt högst upp i panelen. Skriv vad du vill, till exempel byggnader över 1200 m i vald kommun, så filtrerar, väljer, zoomar eller exporterar den. Varje steg kan ångras.</p></div>
             <a class="inline-cta" href="guide.html#agent" hreflang="en">Läs kapitlet Agent <span aria-hidden="true">→</span> <small lang="en">(EN)</small></a>
         </div>
-        <ul class="capability-list"><li><strong>Din modell</strong><span>Claude, Mistral, OpenAI och kompatibla servrar, eller en lokal Ollama-modell. Några gratisförfrågningar i månaden för att prova, sedan din egen nyckel, lagrad i QGIS autentiseringsdatabas.</span></li><li><strong>Ångra steg för steg</strong><span>Filter tillämpas direkt. Undo och Redo går igenom agentens förfrågningar, och Undo back to here går tillbaka till valfritt steg.</span></li><li><strong>QGIS-algoritmer</strong><span>Den kan hitta och köra Processing-algoritmer som skapar lager eller statistik, på lager i projektet. Varje resultat är ett tillfälligt lager som Undo tar bort.</span></li><li><strong>Du bekräftar</strong><span>Exporter och tillagda eller borttagna lager frågar först. Ett filter är en enda enkel WHERE-sats, som kontrolleras innan den körs.</span></li><li><strong>Källor du bockar i</strong><span>Öppna dataportaler, WFS-tjänster, Sentinel-2-scener och MCP-kopplingar, allt avstängt tills du bockar i det.</span></li><li><strong>Ditt samtycke först</strong><span>Inget skickas innan du har valt en modell och godkänt. Guiden listar vad som följer med varje förfrågan.</span></li><li><strong>MCP-server</strong><span>Av som standard. Claude Code eller en annan MCP-klient på din dator kan styra FilterMate via 127.0.0.1, med en åtkomsttoken.</span></li></ul>
+        <ul class="capability-list"><li><strong>Din modell</strong><span>Din egen API-nyckel för Claude, Mistral, OpenAI eller en kompatibel server, lagrad i QGIS autentiseringsdatabas, eller en lokal Ollama-modell, som inte behöver någon; inställningarna vägleder i båda fallen.</span></li><li><strong>Ångra steg för steg</strong><span>Filter tillämpas direkt. Undo och Redo går igenom agentens förfrågningar, och Undo back to here går tillbaka till valfritt steg.</span></li><li><strong>QGIS-algoritmer</strong><span>Den kan hitta och köra Processing-algoritmer som skapar lager eller statistik, på lager i projektet. Varje resultat är ett tillfälligt lager som Undo tar bort.</span></li><li><strong>Du bekräftar</strong><span>Exporter och tillagda eller borttagna lager frågar först. Ett filter är en enda enkel WHERE-sats, som kontrolleras innan den körs.</span></li><li><strong>Källor du bockar i</strong><span>Öppna dataportaler, WFS-tjänster, Sentinel-2-scener och MCP-kopplingar, allt avstängt tills du bockar i det.</span></li><li><strong>Ditt samtycke först</strong><span>Inget skickas innan du har valt en modell och godkänt. Guiden listar vad som följer med varje förfrågan.</span></li><li><strong>MCP-server</strong><span>Av som standard. Claude Code eller en annan MCP-klient på din dator kan styra FilterMate via 127.0.0.1, med en åtkomsttoken.</span></li></ul>
     </div>
 </section>
 
